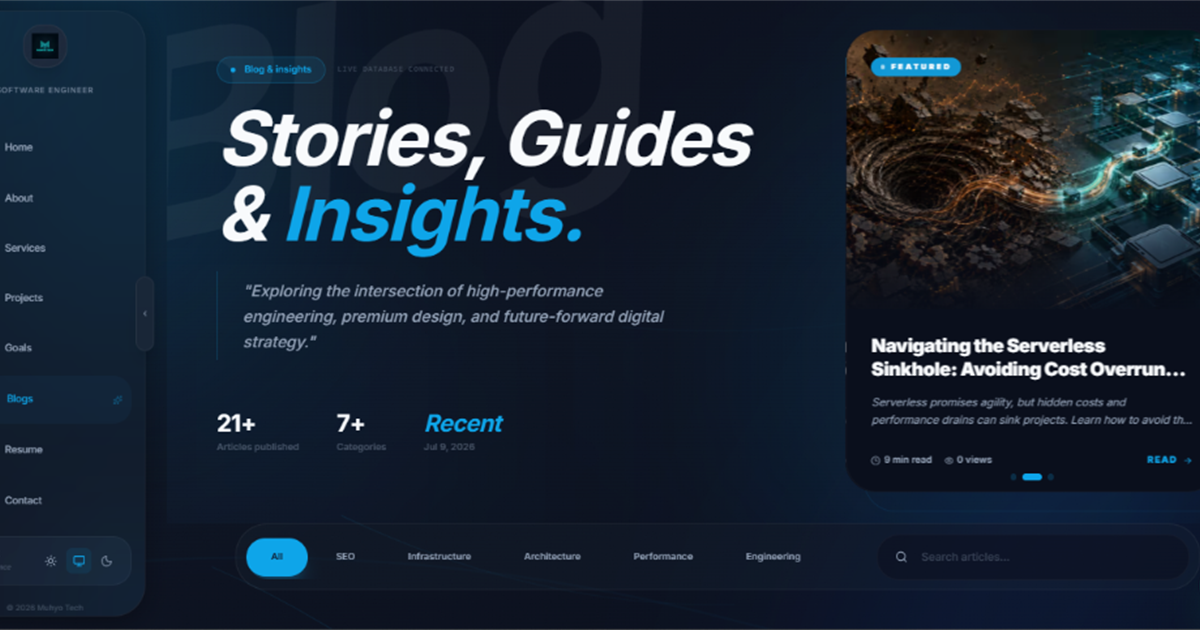
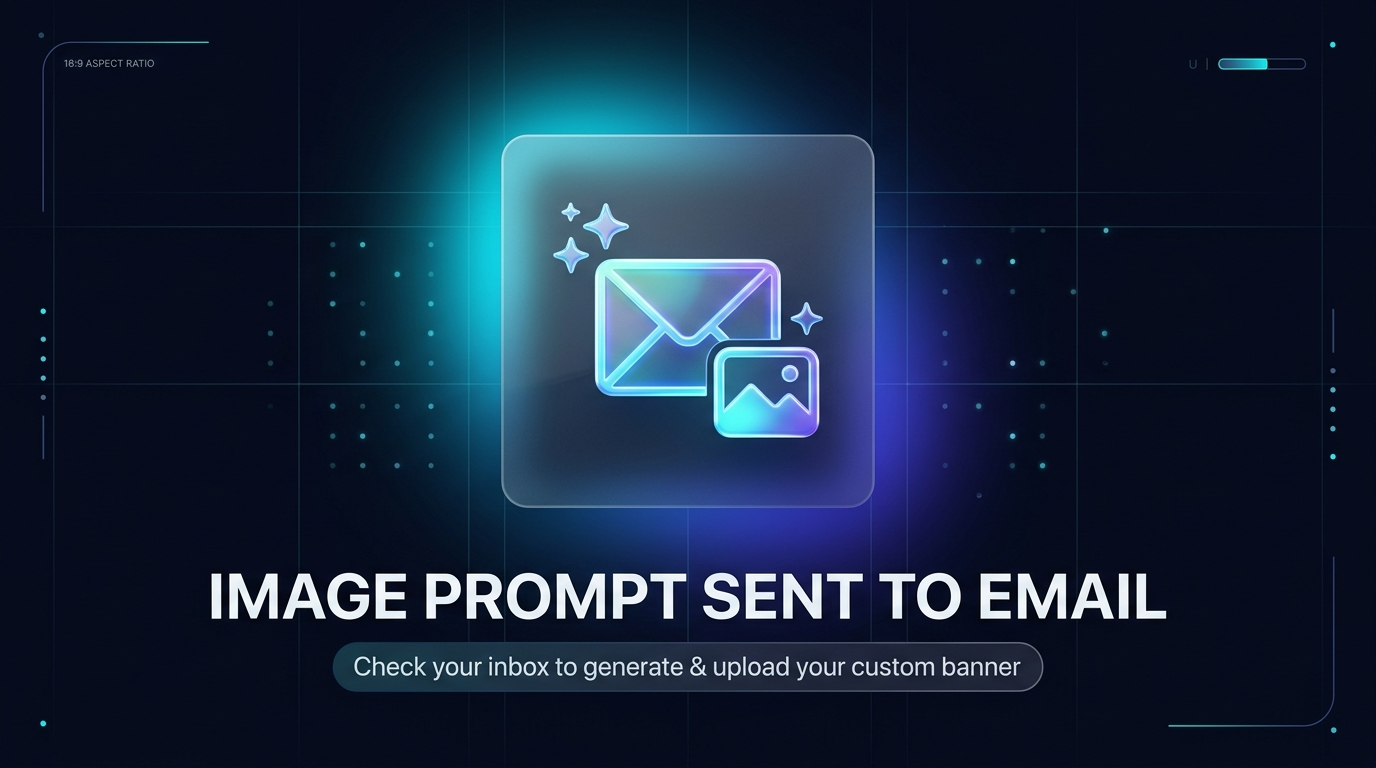
feat: implement image optimization utility and create new blog UI components for rendering content and sliders.

diff --git a/src/components/BlogContent.jsx b/src/components/BlogContent.jsx
@@ -339,7 +339,7 @@ const ArticleCard = ({ blog, index, onImageClick }) => {
         aria-label={`Preview image for ${blog.title}`}
       >
         <Image
-          src={getSafeImageSrc(blog.image || blog.featuredImage?.url, "/portfolio-hero.png")}
+          src={getSafeImageSrc(blog.image || blog.featuredImage?.url, "/blog-fallback.webp")}
           alt={getBlogImageAlt(blog)}
           fill
           loading="lazy"
@@ -400,7 +400,7 @@ const ArticleCard = ({ blog, index, onImageClick }) => {
 };
 
 const HomeArticleCard = ({ blog, index, onImageClick }) => {
-  const image = getSafeImageSrc(blog.image || blog.featuredImage?.url, "/portfolio-hero.png");
+  const image = getSafeImageSrc(blog.image || blog.featuredImage?.url, "/blog-fallback.webp");
   const isFeatured = !!blog.featured;
 
   return (
@@ -714,7 +714,7 @@ export default function BlogContent({
                     setLightboxImages(
                       (homeBlogs || []).map(
                         (b) =>
-                          b.image || b.featuredImage?.url || "/portfolio-hero.png",
+                          b.image || b.featuredImage?.url || "/blog-fallback.webp",
                       ),
                     );
                     setLightboxAlts((homeBlogs || []).map(getBlogImageAlt));
@@ -801,7 +801,7 @@ export default function BlogContent({
                   onImageClick={(idx) => {
                     setLightboxImages(
                       displayPosts.map(
-                        (b) => b.image || b.featuredImage?.url || "/portfolio-hero.png"
+                        (b) => b.image || b.featuredImage?.url || "/blog-fallback.webp"
                       )
                     );
                     setLightboxAlts(displayPosts.map(getBlogImageAlt));

diff --git a/src/app/(admin)/admin/(protected)/blogs/page.jsx b/src/app/(admin)/admin/(protected)/blogs/page.jsx
@@ -245,7 +245,7 @@ export default function BlogsPage() {
       render: (item) => (
         <div className="w-16 h-10 rounded-lg overflow-hidden border border-border shadow-lg bg-muted/50 flex items-center justify-center">
           <Image
-            src={getSafeImageSrc(item.image || item.images?.[0])}
+            src={getSafeImageSrc(item.image || item.featuredImage?.url || item.images?.[0], "/blog-fallback.webp")}
             alt={getBlogImageAlt(item)}
             width={64}
             height={40}
@@ -1443,7 +1443,7 @@ function BlogMetric({ label, value, icon: Icon, color = "text-violet-400", last 
 }
 
   function BlogCard({ blog, aiActions, onCreateBlogger, onEdit, onView, onDelete, onInspect }) {
-    const image = getSafeImageSrc(blog.image || blog.featuredImage?.url || blog.images?.[0]);
+    const image = getSafeImageSrc(blog.image || blog.featuredImage?.url || blog.images?.[0], "/blog-fallback.webp");
     const status = blog._isFromDataJs ? "template" : blog.publishStatus || "draft";
     const date = blog.createdAt ? format(new Date(blog.createdAt), "MMM d, yyyy") : "Not published";
     const intel = blog.intelligence;

diff --git a/src/components/BlogSlider.jsx b/src/components/BlogSlider.jsx
@@ -66,7 +66,7 @@ const BlogSliderComponent = ({ posts }) => {
           {/* Background Image */}
           <div className="absolute inset-0">
             <Image
-              src={getSafeImageSrc(currentPost.image || currentPost.featuredImage?.url, "/portfolio-hero.png")}
+              src={getSafeImageSrc(currentPost.image || currentPost.featuredImage?.url, "/blog-fallback.webp")}
               alt={getBlogImageAlt(currentPost)}
               fill
               className="object-cover transition-transform duration-[2000ms] group-hover:scale-105"

diff --git a/src/lib/images/getSafeImageSrc.js b/src/lib/images/getSafeImageSrc.js
@@ -1,9 +1,10 @@
-const DEFAULT_FALLBACK_IMAGE = "/portfolio-hero.webp";
+const DEFAULT_FALLBACK_IMAGE = "/blog-fallback.webp";
 
 const optimizedLocalImages = {
   "/logo.png": "/logo.webp",
   "/hero-visual.png": "/hero-visual.webp",
   "/portfolio-hero.png": "/portfolio-hero.webp",
+  "/blog-fallback.png": "/blog-fallback.webp",
   "/contact_hero_abstract.png": "/contact_hero_abstract.webp",
   "/images/contact-hero.png": "/images/contact-hero.webp",
   "/images/contact-elite.png": "/images/contact-elite.webp",

diff --git a/src/app/(admin)/admin/(protected)/blog-optimizer/page.jsx b/src/app/(admin)/admin/(protected)/blog-optimizer/page.jsx
@@ -310,7 +310,7 @@ export default function BlogOptimizerPage() {
       ) : (
         <div className="grid grid-cols-1 md:grid-cols-2 lg:grid-cols-3 gap-6">
           {filteredBlogs.map((blog) => {
-            const imgSrc = getSafeImageSrc(blog.image || blog.featuredImage?.url);
+            const imgSrc = getSafeImageSrc(blog.image || blog.featuredImage?.url, "/blog-fallback.webp");
             const isOptimized = blog.auditStatus === "optimized";
 
             return (

diff --git a/src/components/BlogPostDetail.jsx b/src/components/BlogPostDetail.jsx
@@ -36,7 +36,7 @@ export default function BlogPostDetail({
 }) {
   if (!blog) return null;
 
-  const coverImage = getSafeImageSrc(blog.image || blog.featuredImage?.url, "/blog-preview.png");
+  const coverImage = getSafeImageSrc(blog.image || blog.featuredImage?.url, "/blog-fallback.webp");
   const blogPath = `/blog/${blog.slug}`;
   const fullShareUrl = shareUrl || `${SITE_URL}${blogPath}`;
   const encodedShareUrl = encodeURIComponent(fullShareUrl);

diff --git a/src/components/FeaturedBlogSlider.jsx b/src/components/FeaturedBlogSlider.jsx
@@ -104,7 +104,7 @@ export default function FeaturedBlogSlider({ featuredBlogs, onImageClick }) {
                     <Image
                       src={getSafeImageSrc(
                         blog.image || blog.featuredImage?.url,
-                        "/portfolio-hero.png",
+                        "/blog-fallback.webp",
                       )}
                       alt={getBlogImageAlt(blog)}
                       width={1600}
